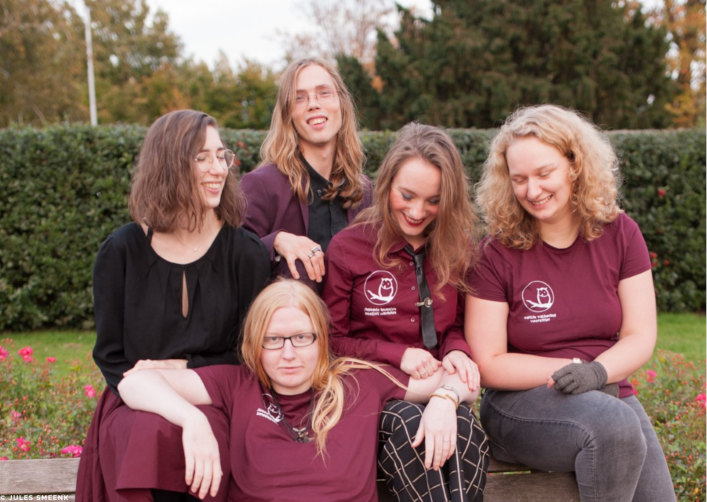
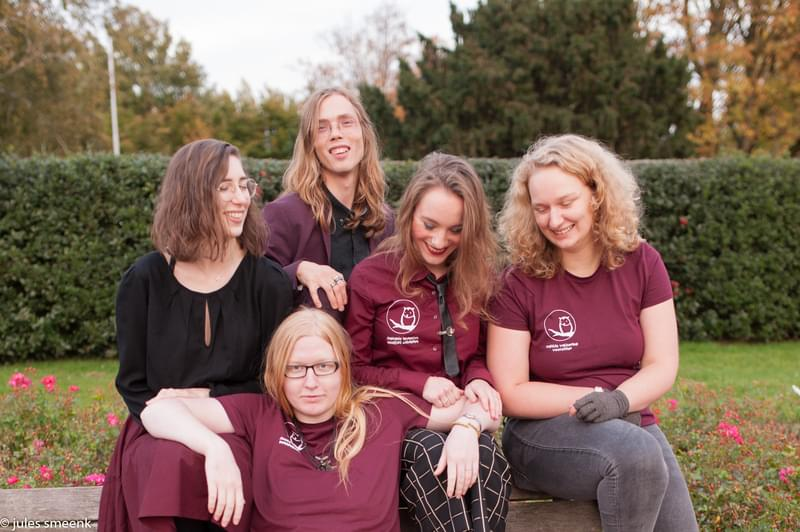
Add larger photo for bestuur18a, make it full-width on small screens

diff --git a/kn/static/templates/static/bestuur18a.html b/kn/static/templates/static/bestuur18a.html
@@ -3,10 +3,46 @@
 {% load base %}
 {% load i18n %}
 
+{% block styles %}
+{{ block.super }}
+<style>
+/* make photo full-width on small devices */
+@media screen and (max-width: 800px) {
+    #content img {
+        padding: 0;
+        margin: 4px 0;
+        max-width: 100vw;
+        border: 0;
+        margin-left: -15px;
+    }
+}
+@media screen and (max-width: 550px) {
+    #content img {
+        margin-left: -10px;
+    }
+}
+
+figure {
+    display: block;
+    text-align: center;
+    margin: 0;
+}
+figure img {
+    height: auto;
+}
+figcaption {
+    margin-left: 1em;
+}
+</style>
+{% endblock styles %}
 {% block body %}
-
-<img width="707" src="{{ MEDIA_URL }}static/img/bestuur18a.jpg" alt="Bestuursfoto bestuur 18 A"/>
-
+<figure>
+  <img width="800" height="532" src="{{ MEDIA_URL }}static/img/bestuur18a.jpg" alt="Bestuursfoto bestuur 18 A"
+       srcset="{{ MEDIA_URL }}static/img/bestuur18a-800.webp 1x, {{ MEDIA_URL }}static/img/bestuur18a-1600.webp 2x" />
+  <figcaption>
+    <small>Van links naar rechts: Lotte (Secretaris), Femke (Penningmeester), Bas (Pandcommissaris), Stephanie (Commissaris Activiteiten), Caitlin (Voorzitter)</small>
+  </figcaption>
+</figure>
 <div style="white-space: pre-line">Wij zijn bestuur 18, een diverse groep mensen
 Leer ons kennen voordat je je een ander bestuur gaat wensen
 We willen ons dus voorstellen via dit bericht
